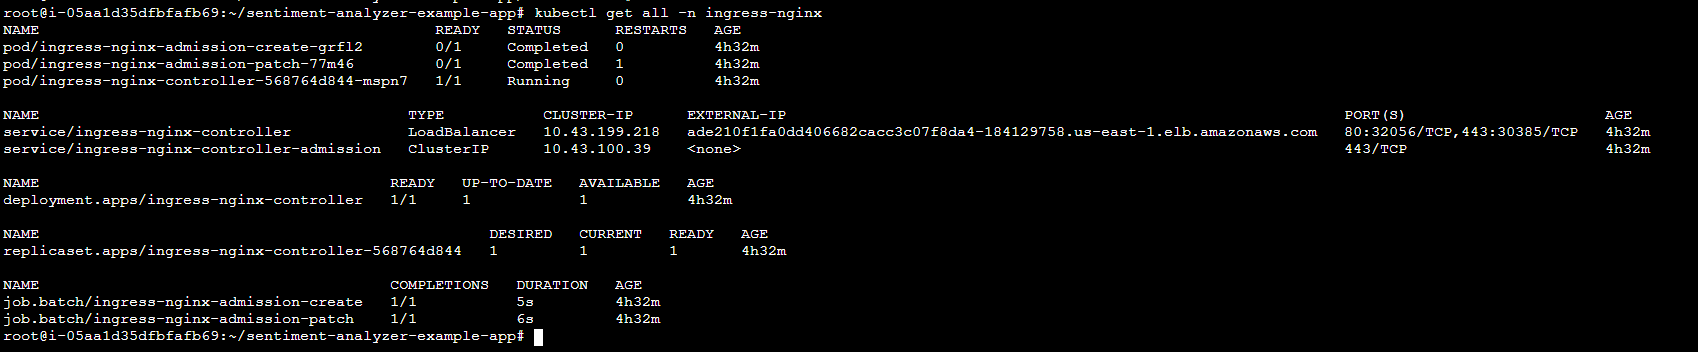
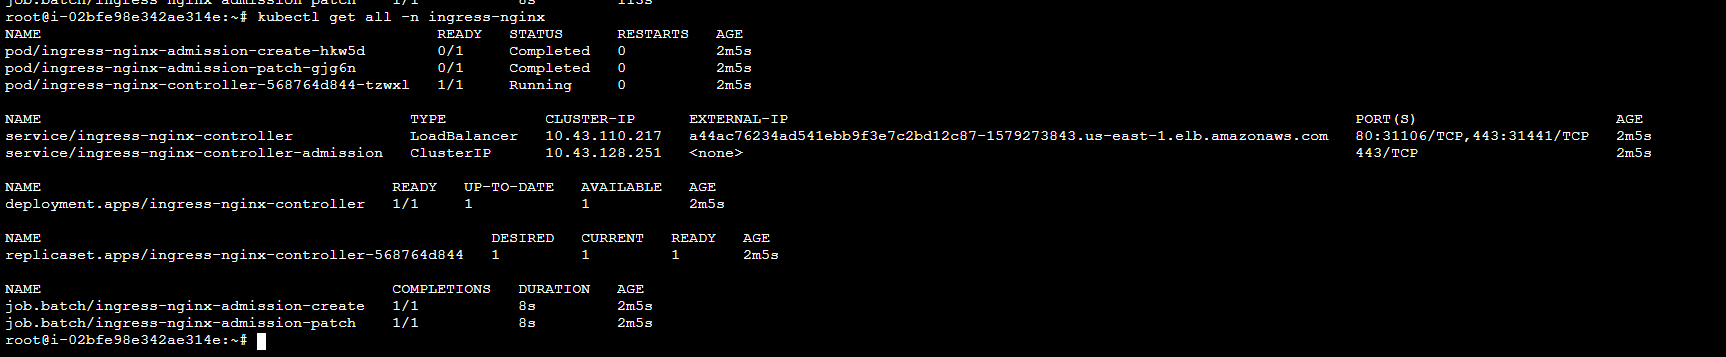
code fixes

diff --git a/Level-3/M2-HandsOnKubernetes/L04-Kubernetes.md b/Level-3/M2-HandsOnKubernetes/L04-Kubernetes.md
@@ -1,8 +1,10 @@
 # Deploy Sentiment Analyzer using Kubernetes
 
-
+Here we will deploy the same sentiment analyzer application but over Kubernetes by creating various deployments which up spun up respective pods and also create services accordingly to expose the application for accessing 
 
 ## Step 1: Prepare K3S cluster 
+
+Follow this [tutorial to setup K3s cluster](https://github.com/squareops/road-to-devops/blob/develop/Level-3/M2-HandsOnKubernetes/L02-SetupK3sCluster.md) with master and worker nodes respectively
 
 ## Step 2 : Install dependencies on EC2 
 
@@ -144,7 +146,6 @@ kubectl apply -f service-sa-frontend-lb.yaml
 
 ```
 
-
 Now check all services and pods are up 
 
 ![](Images/a36.png)
@@ -153,15 +154,160 @@ Hit the Domain and the application will work
 
 ![](Images/a37.png)
 
-## sentiment analyser using kubernetes and ingress ##
-Enable ingress by below command
+**Now we will deploy the same application using Ingress**
+
+## sentiment analyser using kubernetes and ingress
+
+### Step 1: Enable ingress by below command
 
     kubectl apply -f https://raw.githubusercontent.com/kubernetes/ingress-nginx/controller-v1.1.1/deploy/static/provider/cloud/deploy.yaml
 
-Check whether the load balancer created or not in your account
+### Step 2: Check whether the load balancer created or not in your account
 
     kubectl get all -n ingress-nginx
 
 ![](Images/a38.png)
 
-git clone 
+check loadbalancer created in the AWS account 
+
+![](Images/a39.png)
+
+### Step 3: Clone the Repository & deploy application
+
+    git clone https://github.com/sq-ldc/sentiment-analyzer-example-app.git
+
+Go to this folder deployment-through-ingress 
+
+![](Images/a40.png)
+
+Make sure you have built and updated the deployment files with your docker images respectively
+1. update image in sa-logic-deployment.yaml
+
+![](Images/a41.png)
+
+2. update image in sa-web-app-deployment.yaml
+
+![](Images/a43.png)
+
+3. update the host name in the ingress-web.yaml file
+
+![](Images/a44.png)
+
+4. 
+Firstly deploy logic deployment and logic service by running the following commands 
+
+```
+kubectl apply -f sa-logic-deployment.yaml
+kubecl apply -f  service-sa-logic.yaml
+
+```
+Now the check the pods and svc created 
+
+![](Images/a42.png)
+
+
+Then deploy webapp, webapp service and web-app ingress using the following commands 
+
+```
+kubectl apply -f sa-web-app-deployment.yaml
+kubectl apply -f service-sa-web-app.yaml
+kubectl apply -f ingress-web.yaml
+```
+
+![](Images/a45.png)
+
+![](Images/a46.png)
+
+If You will get the error that webapp ingress is not deployed , then run.
+
+    kubectl delete -A ValidatingWebhookConfiguration ingress-nginx-admission
+
+Pass your web-app host name in the App.js of frontend
+
+![](Images/a47.png)
+
+```
+cd ..
+sudo npm install
+sudo npm run build
+```
+![](Images/a48.png)
+
+Create image of frontend and push it to docker hub.
+
+![](Images/a49.png)
+
+Then deploy frontend, frontend service and frontend ingress
+
+- update the docker image in sa-frontend-deployment.yaml
+
+![](Images/a50.png)
+
+- update host in ingress-front.yaml 
+
+![](Images/a51.png)
+
+```
+kubectl apply -f sa-frontend-deployment.yaml
+kubectl apply -f service-sa-frontend.yaml
+kubectl apply -f ingress-front.yaml
+```
+Check whether all get host name and address of load balancer using below command
+```
+kubectl get ingress
+```
+![](Images/a52.png)
+
+### Step 4: Create your all host names in route 53 and attach it to load balancer 
+
+- hostname for webapp 
+
+![](Images/a53.png)
+
+- hostname for frontend 
+
+![](Images/a54.png)
+
+### Step 5: Verify the application 
+
+Hit your front domain and check app will work.
+
+![](Images/a55.png)
+
+## sentiment analyser using kubernetes and helm chart
+
+### Install HELM dependencies
+
+```
+curl -fsSL -o get_helm.sh https://raw.githubusercontent.com/helm/helm/master/scripts/get-helm-3
+chmod 700 get_helm.sh
+./get_helm.sh
+```
+
+![](Images/a56.png)
+
+Run below commands
+
+```
+helm create sa-webapp
+helm create sa-frontend
+helm create sa-logic
+```
+
+Enter every directory and change the required values in values.yaml file like ingress value(only in front and webapp) image, image tag, etc.
+
+Don’t forget to pass the env variable in webapp deployment which is required to connect webapp service to logic service or you can take the help from https://github.com/sq-ldc/sentiment-analyzer-example-app/tree/main/HELM
+Also don’t forget to disable probes in webapp and logic helm deployment file
+Run these commands
+```
+helm install sa-logic sa-logic/ --values sa-logic/values.yaml
+helm install sa-webapp sa-webapp/ --values sa-webapp/values.yaml
+helm install sa-frontend sa-frontend/ --values sa-frontend/values.yaml
+```
+Hit the frontend domain you’ll get the application output
+
+![](Images/a55.png)
+
+## Conclusion 
+
+You have deployed application on Kubernetes using ingress and helm for which you had deployed pods, services as loadbalancer and ingress. Next you had updated the docker images in respective values.yaml for helm chart deployment 

diff --git a/Level-3/M2-HandsOnKubernetes/L01-Install&ConfigureK8s.md b/Level-3/M2-HandsOnKubernetes/L01-Install&ConfigureK8s.md
@@ -2,12 +2,12 @@
 K3s is a certified lightweight kubernetes. The tool can be used to create a single node kubernetes cluster.
 
 - [Install and Configure K3s](#install-and-configure-k3s)
-  - [Installation:](#installation)
-  - [Get nodes in cluster:](#get-nodes-in-cluster)
-  - [Install kubectl:](#install-kubectl)
-  - [Verify installation:](#verify-installation)
-  - [Configure kubectl to access cluster:](#configure-kubectl-to-access-cluster)
-  - [Ensure kubectl works:](#ensure-kubectl-works)
+  - [Installation](#installation)
+  - [Get nodes in cluster](#get-nodes-in-cluster)
+  - [Install kubectl](#install-kubectl)
+  - [Verify installation](#verify-installation)
+  - [Configure kubectl to access cluster](#configure-kubectl-to-access-cluster)
+  - [Ensure kubectl works](#ensure-kubectl-works)
   - [Install Helm3 (Ref: https://helm.sh/docs/intro/install/)](#install-helm3-ref-httpshelmshdocsintroinstall)
   - [Install mysql Helm3](#install-mysql-helm3)
 
@@ -15,19 +15,19 @@ K3s is a certified lightweight kubernetes. The tool can be used to create a sing
 
 Spun up an Ubuntu 20 EC2 instance and run the following commands on it 
 
-### Installation: 
+### Installation
 
     curl -sfL https://get.k3s.io | sh -
 
   ![](Images/k8.png)
 
-### Get nodes in cluster:
+### Get nodes in cluster
 
     sudo k3s kubectl get node
 
   ![](Images/k9.png)
 
-### Install kubectl:
+### Install kubectl
 
     curl -LO "https://dl.k8s.io/release/$(curl -L -s https://dl.k8s.io/release/stable.txt)/bin/linux/amd64/kubectl"
 
@@ -35,13 +35,13 @@ Spun up an Ubuntu 20 EC2 instance and run the following commands on it
 
   ![](Images/k11.png)
 
-### Verify installation: 
+### Verify installation
 
     kubectl version --client
 
   ![](Images/k12.png)
 
-### Configure kubectl to access cluster:
+### Configure kubectl to access cluster
 
 - Copy k3s kubeconfig from its default location to .kube/config
 
@@ -55,7 +55,7 @@ sudo chown $USER:$USER ~/.kube/config
 ```
   ![](Images/k13.png)
 
-### Ensure kubectl works:
+### Ensure kubectl works
 
     kubectl cluster-info
 

diff --git a/Level-3/M2-HandsOnKubernetes/L03-DockerContainers.md b/Level-3/M2-HandsOnKubernetes/L03-DockerContainers.md
@@ -28,7 +28,7 @@ To pull these images on master node, run the following commands
 
     docker pull IMAGE_URI 
 
-Like, in our case the image uri is as follows:
+Like, in our case the image URI is as follows:
 
 ```
 docker pull public.ecr.aws/u8i3s3j7/road-to-devops-sentiment-analysis:sa-logic
